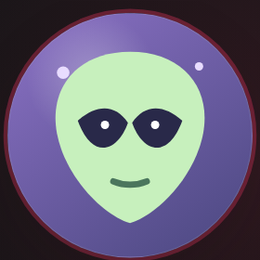
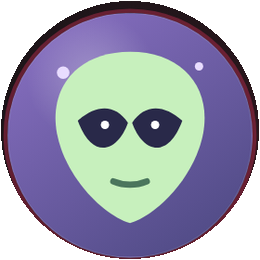
fix(roku): kill solid blue/dark slabs and fullscreen Loading walls
Avatar PNGs use circular alpha (no square boxes). Pairing drops glow and
empty QR card rects. Profiles uses labels instead of opaque chrome Posters.
Connect/link busy states stay on pairing chrome, not statusGroup.

Changed region(s): [[0.0, 0.0, 1.0, 1.0]]

diff --git a/clients/roku/tests/test_contract.py b/clients/roku/tests/test_contract.py
@@ -196,12 +196,14 @@ class SecretSafetyTests(unittest.TestCase):
         # column, decorative glow) -- these checks pin the structural
         # pieces of that pass so a future edit doesn't silently drop them,
         # without over-constraining exact pixel values.
-        self.assertIn('id="pairingGlow1"', SCENE)
+        # Glow Rectangles and solid chrome Posters removed (painted as slabs).
+        self.assertNotIn('id="pairingGlow1"', SCENE)
         self.assertIn('id="pairingLogoIcon"', SCENE)
         self.assertIn('uri="pkg:/images/pairing-logo.png"', SCENE)
         self.assertIn('text="SIGN IN ON ANOTHER DEVICE"', SCENE)
         self.assertIn('id="pairingQrBg"', SCENE)
-        self.assertIn('id="pairingManualHintBg"', SCENE)
+        self.assertNotIn('id="pairingManualHintBg"', SCENE)
+        self.assertIn("sub showPairingBusy(", MAIN)
         # The functional ids the .brs logic drives must still all exist.
         for pairing_id in (
             "pairingQr",
@@ -308,6 +310,10 @@ class BrandingAndResidualAssetTests(unittest.TestCase):
         self.assertNotIn('showStatus("Searching"', MAIN)
         self.assertNotIn('showStatus("Loading library"', MAIN)
         self.assertNotIn('showStatus("Loading playlist"', MAIN)
+        self.assertNotIn('showStatus("Connecting"', MAIN)
+        self.assertNotIn('showStatus("Link this Roku"', MAIN)
+        self.assertIn("sub showPairingBusy(", MAIN)
+        self.assertIn('visible="false"', SCENE)  # statusGroup starts hidden
         # Product surfaces must not swap to status walls on bad payloads.
         self.assertNotIn('showStatus("Library unavailable"', MAIN)
         self.assertNotIn('showStatus("Search unavailable"', MAIN)

diff --git a/CHANGELOG.md b/CHANGELOG.md
@@ -9,6 +9,10 @@ uses [Semantic Versioning](https://semver.org/spec/v2.0.0.html).
 
 ### Fixed
 
+- Roku shell cleanup: circular avatar PNGs (no square slabs), pairing without
+  glow/QR empty white box, profiles without solid chrome Posters, connect/
+  link busy state stays on pairing chrome (no fullscreen Loading wall).
+
 - Roku Search/Playlists no longer paint web-freeze crop Posters (those showed
   as solid dark/blue panel slabs cutting the shell). Native labels only.
 
